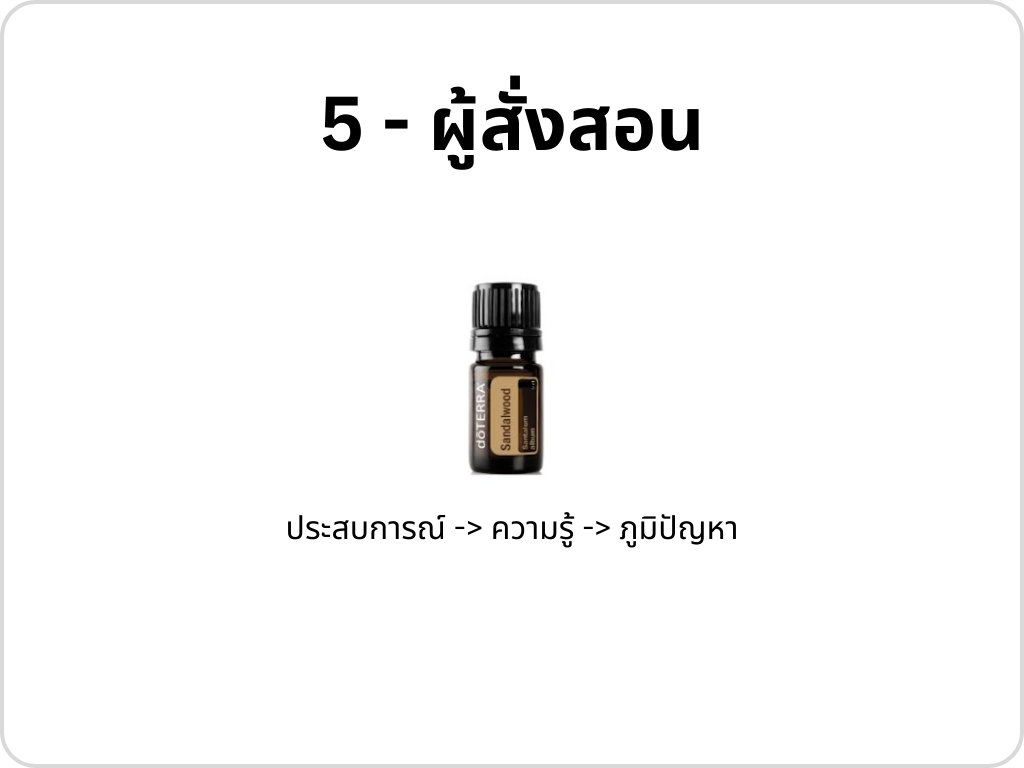
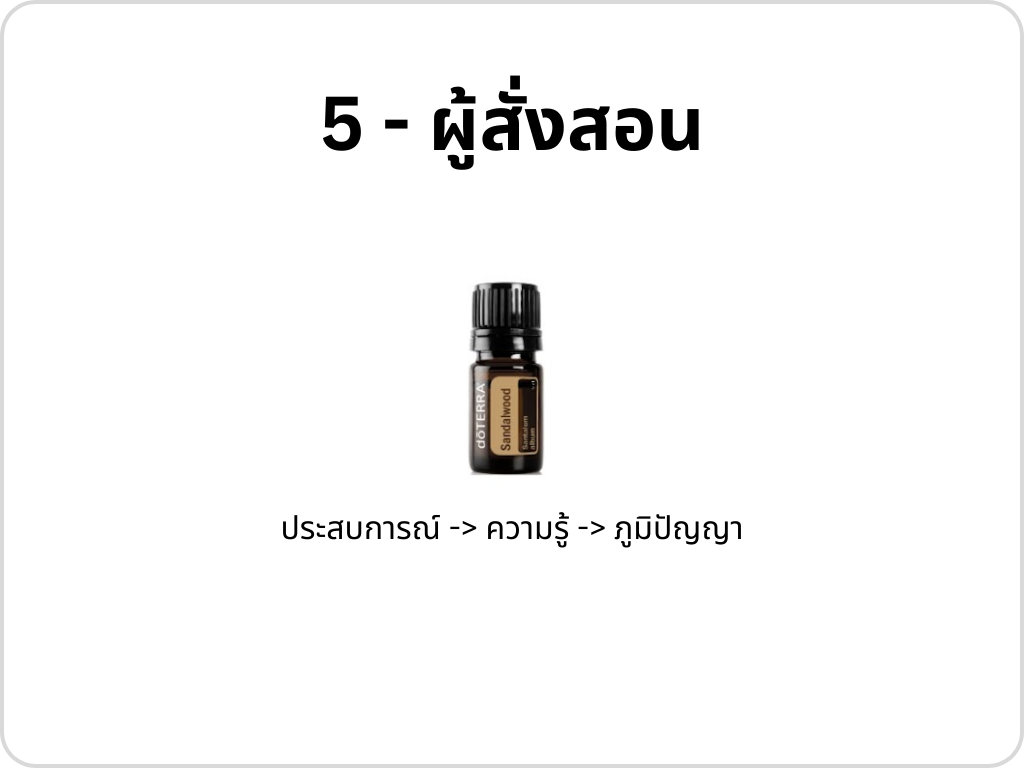
fix: typo

Changed region(s): [[0.2812, 0.6562, 0.7188, 0.7188]]

diff --git a/index.html b/index.html
@@ -13,6 +13,12 @@
         .result { margin-top: 20px; max-width: 768px; margin: auto; text-align: left; }
         img { max-width: 768px; height: auto; }
 
+        .footer {
+            margin-top: 20px;
+            font-size: small;
+            color: #666;
+        }
+
         /* Grid Styling */
         .matrix {
             display: grid;
@@ -41,7 +47,11 @@
 
     <div class="result" id="result"></div>
 
-    Credit: <a href="https://github.com/JaymeChua/NumerologyApp">Mr.Chua</a>
+    <div class="footer">
+        Credit: <a href="https://github.com/JaymeChua/NumerologyApp">Mr.Chua</a><br/>
+        All rights reserved to the respective owners.<br/>
+        Translation by <a href="https://relatcm.netlify.app">RelaTCM</a>
+    </div>
 
     <script src="script.js"></script>
 </body>
